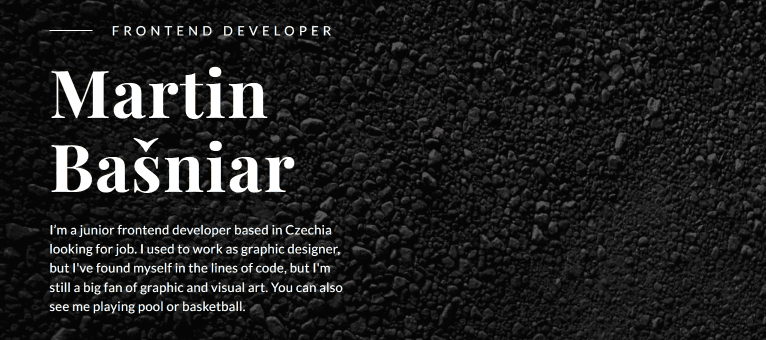
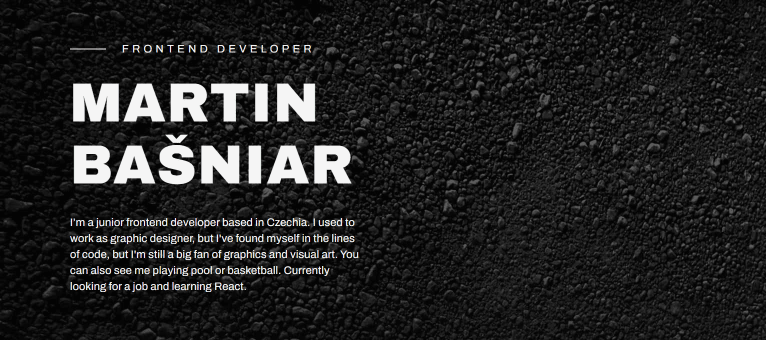
updated portfolio project

diff --git a/index.html b/index.html
@@ -6,7 +6,9 @@
     <meta name="viewport" content="width=device-width, initial-scale=1.0">
     <link rel="stylesheet" href="style.css">
 
-    <link rel="preconnect" href="https://fonts.googleapis.com"><link rel="preconnect" href="https://fonts.gstatic.com" crossorigin><link href="https://fonts.googleapis.com/css2?family=Archivo+Black&family=Archivo:wght@400;500;600;700&display=swap" rel="stylesheet">
+    <link rel="preconnect" href="https://fonts.googleapis.com">
+    <link rel="preconnect" href="https://fonts.gstatic.com" crossorigin>
+    <link href="https://fonts.googleapis.com/css2?family=Archivo+Black&family=Archivo:wght@400;700&display=swap" rel="stylesheet">
 
     <link rel="apple-touch-icon" sizes="180x180" href="favicons/apple-touch-icon.png">
     <link rel="icon" type="image/png" sizes="32x32" href="favicons/favicon-32x32.png">
@@ -181,8 +183,7 @@
                     <div class="projects-image">
                         <img class="projects-img-fixed" 
                         src="img/portfolio-766.png"
-                        srcset="img/portfolio-721.png 721w,
-                                img/portfolio-766.png 766w,
+                        srcset="img/portfolio-766.png 766w,
                                 img/portfolio-1532.png 1532w
                                 "
                         sizes="(min-width: 1156px) 766px,
